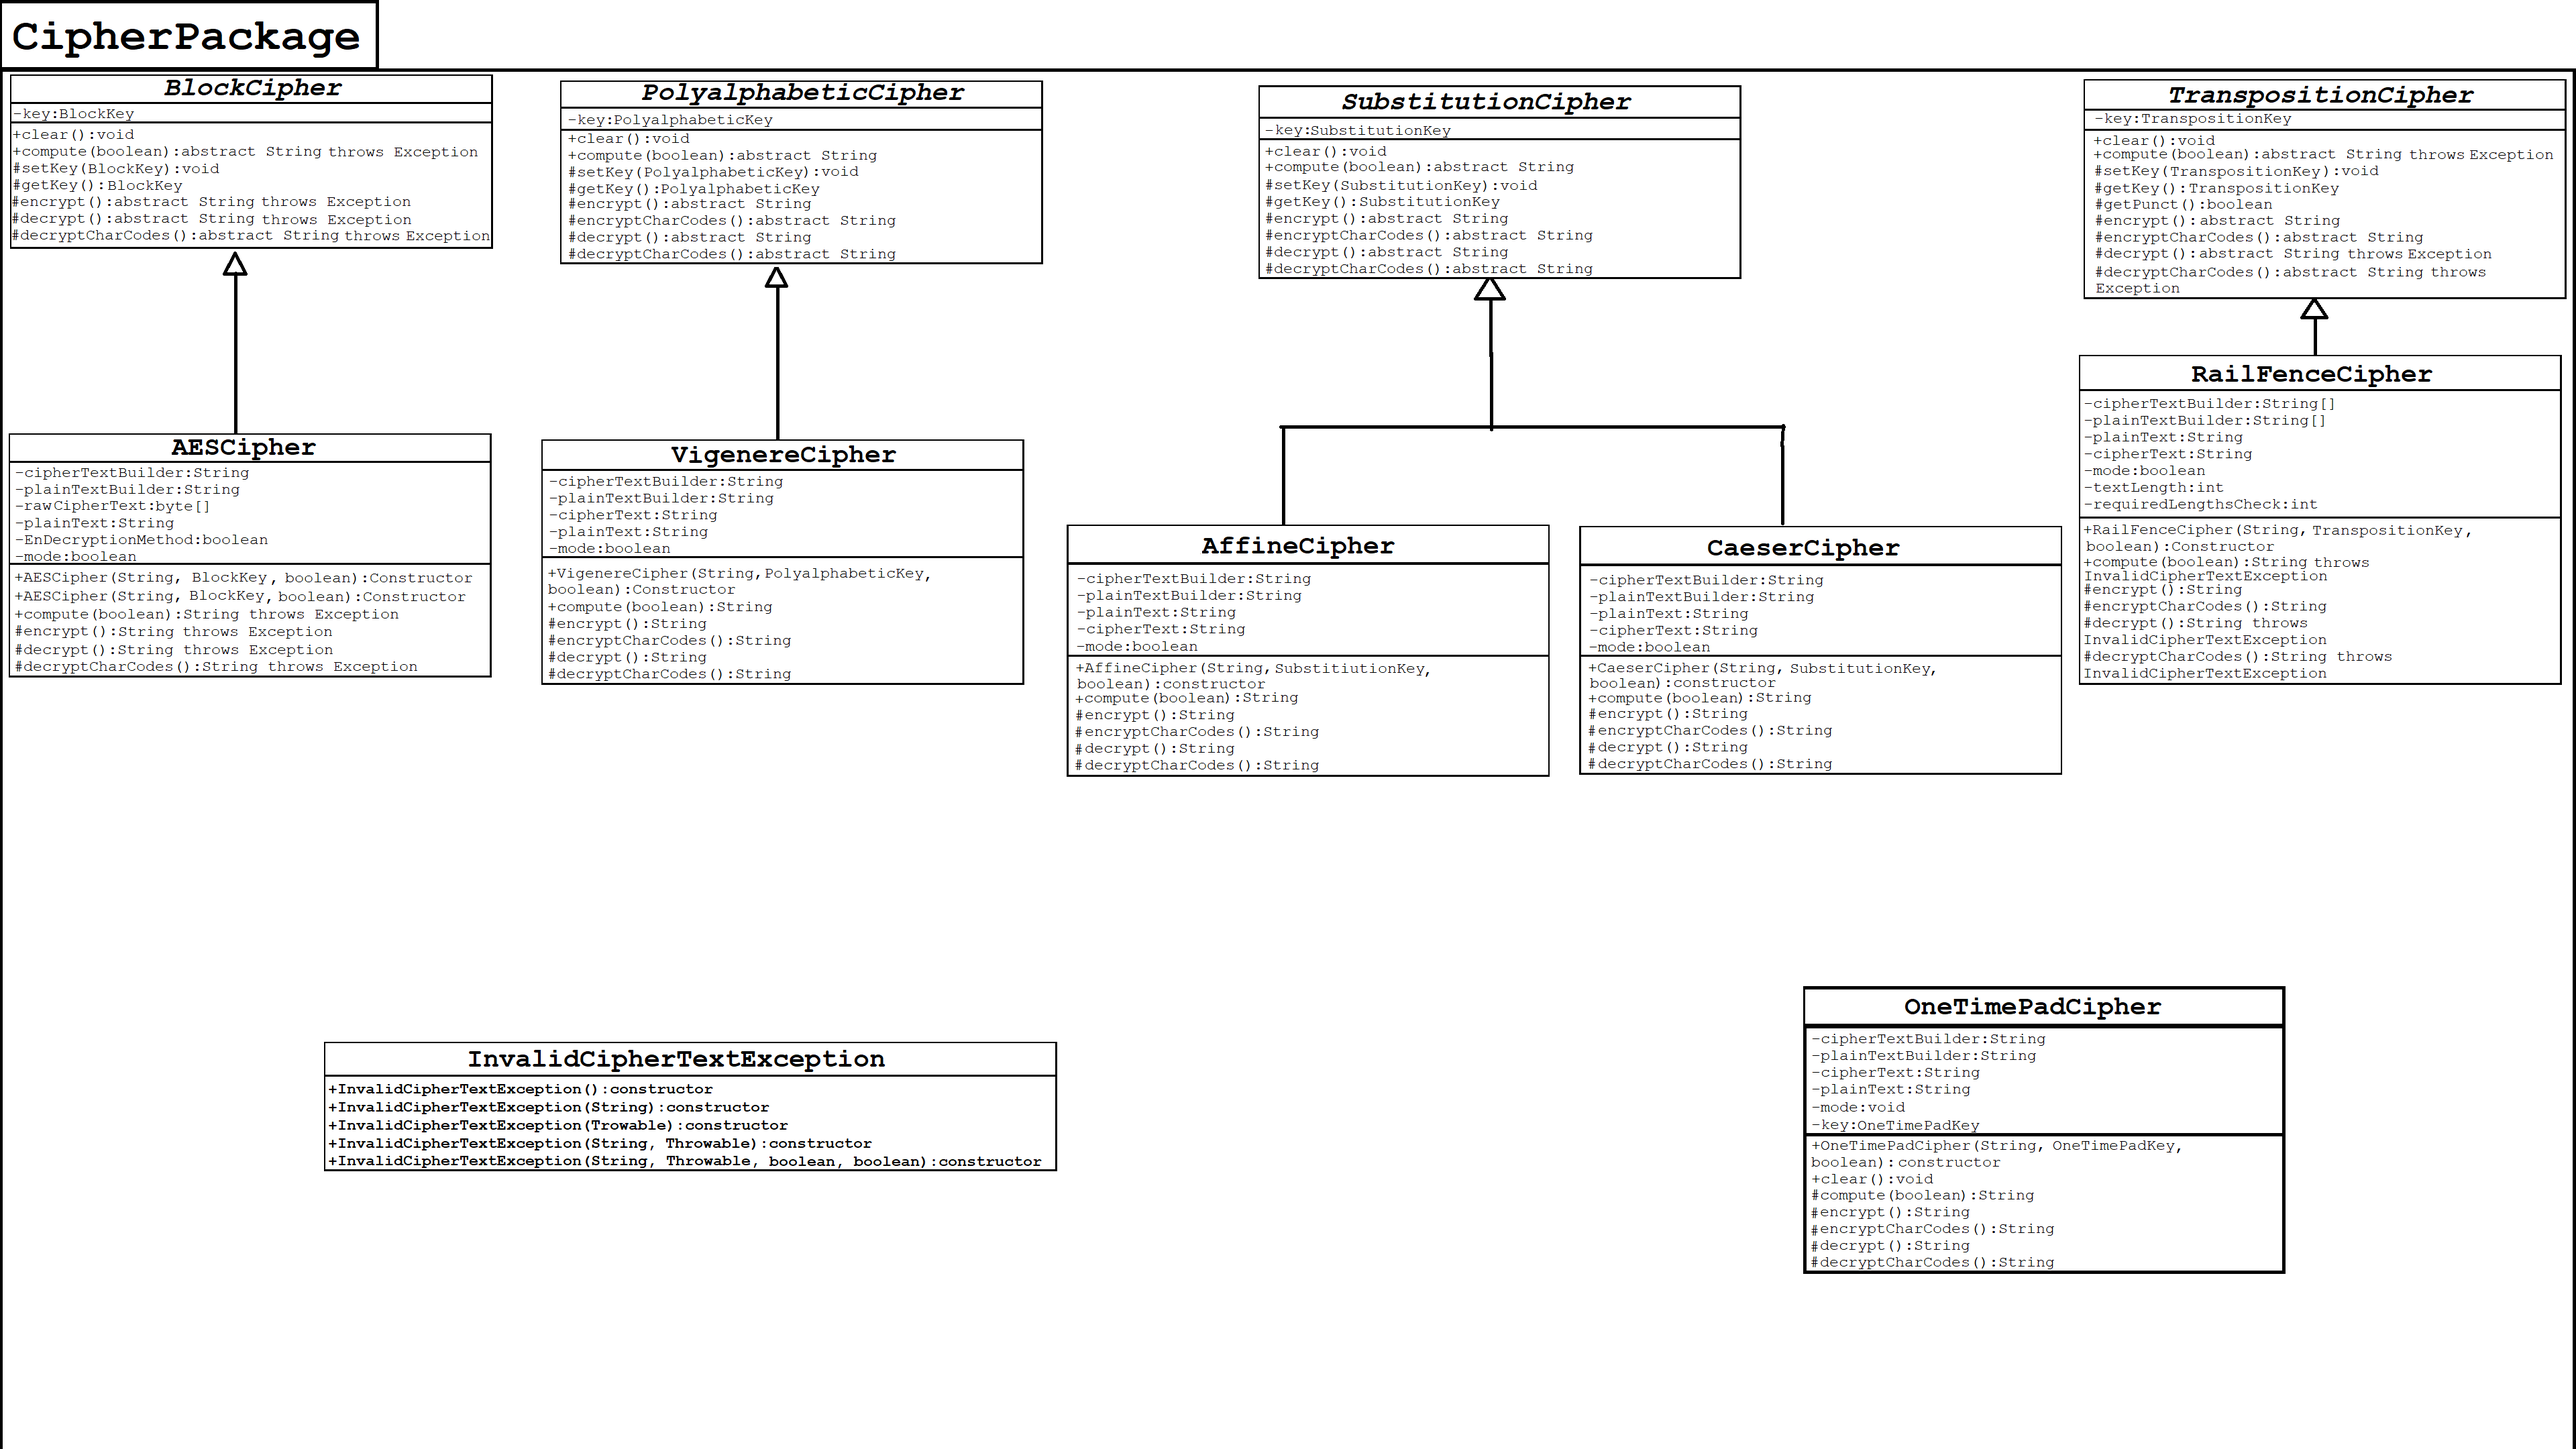
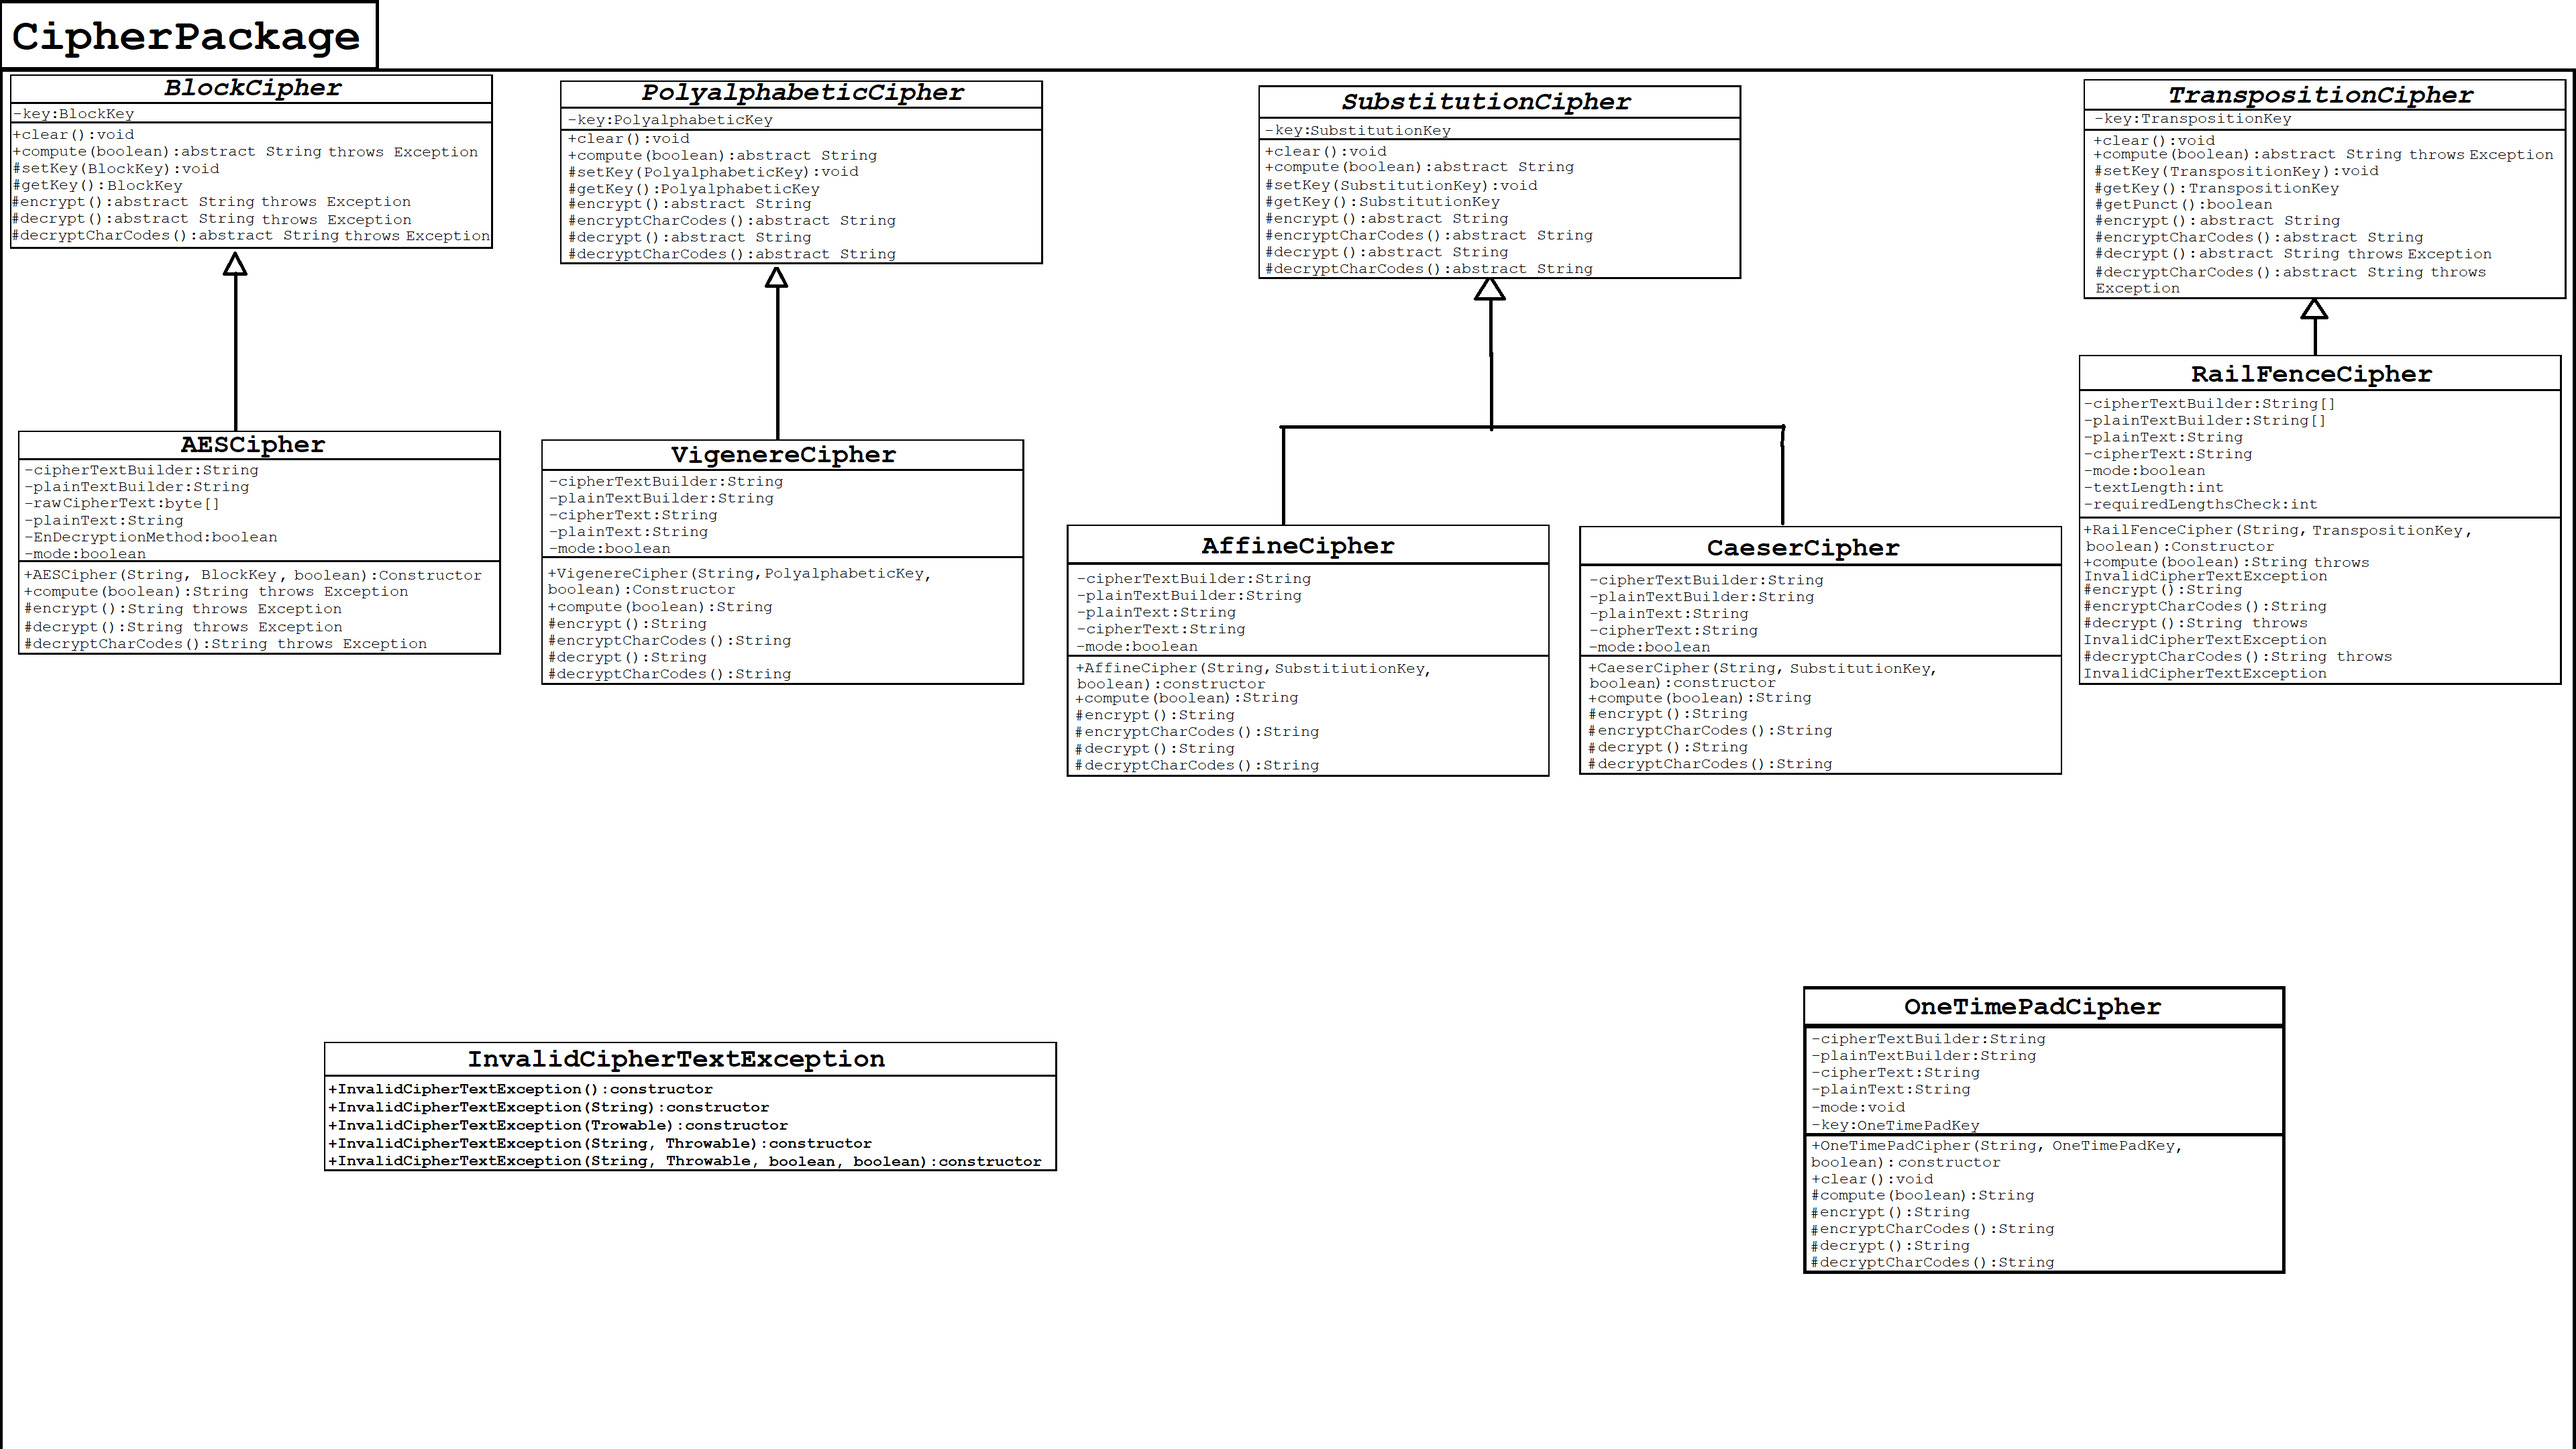
Fied an issue in the UML Diagram.  Completed BlockCipher abstract Java class.

Changed region(s): [[0.0, 0.2792, 0.1875, 0.4653]]

diff --git a/Encryptor Decryptor File Encryption/src/Encryptor Decryptor File Ecryption/CipherPackage/BlockCipher.java b/Encryptor Decryptor File Encryption/src/Encryptor Decryptor File Ecryption/CipherPackage/BlockCipher.java
@@ -1,0 +1,47 @@
+/**
+ * 
+ */
+package CipherPackage;
+
+import CipherKeys.BlockKey;
+
+/**
+ * @author Amol Soneji
+ *
+ */
+public abstract class BlockCipher 
+{
+	
+	private BlockKey key;
+
+	/**
+	 * 
+	 */
+	public BlockCipher() 
+	{
+		// TODO Auto-generated constructor stub
+	}
+	
+	public void clear()
+	{
+		key = null;
+	}
+	
+	public abstract String compute(boolean resultType) throws Exception;
+	
+	protected void setKey(BlockKey key)
+	{
+		this.key = key;
+	}
+	
+	protected BlockKey getKey()
+	{
+		return key;
+	}
+	
+	protected abstract String encrypt() throws Exception; // Char code version of the method is not added, for condensing purpouses.  
+	
+	protected abstract String decrypt() throws Exception;
+	
+	protected abstract String decryptCharCodes() throws Exception;
+}

diff --git a/Encryptor Decryptor File Encryption/src/Encryptor Decryptor File Ecryption/CipherPackage/AESCipher.java b/Encryptor Decryptor File Encryption/src/Encryptor Decryptor File Ecryption/CipherPackage/AESCipher.java
@@ -1,0 +1,43 @@
+/**
+ * 
+ */
+package CipherPackage;
+
+/**
+ * @author eon74
+ *
+ */
+public class AESCipher extends BlockCipher {
+
+	/**
+	 * 
+	 */
+	public AESCipher() {
+		// TODO Auto-generated constructor stub
+	}
+
+	@Override
+	public String compute(boolean resultType) throws Exception {
+		// TODO Auto-generated method stub
+		return null;
+	}
+
+	@Override
+	protected String encrypt() throws Exception {
+		// TODO Auto-generated method stub
+		return null;
+	}
+
+	@Override
+	protected String decrypt() throws Exception {
+		// TODO Auto-generated method stub
+		return null;
+	}
+
+	@Override
+	protected String decryptCharCodes() throws Exception {
+		// TODO Auto-generated method stub
+		return null;
+	}
+
+}
